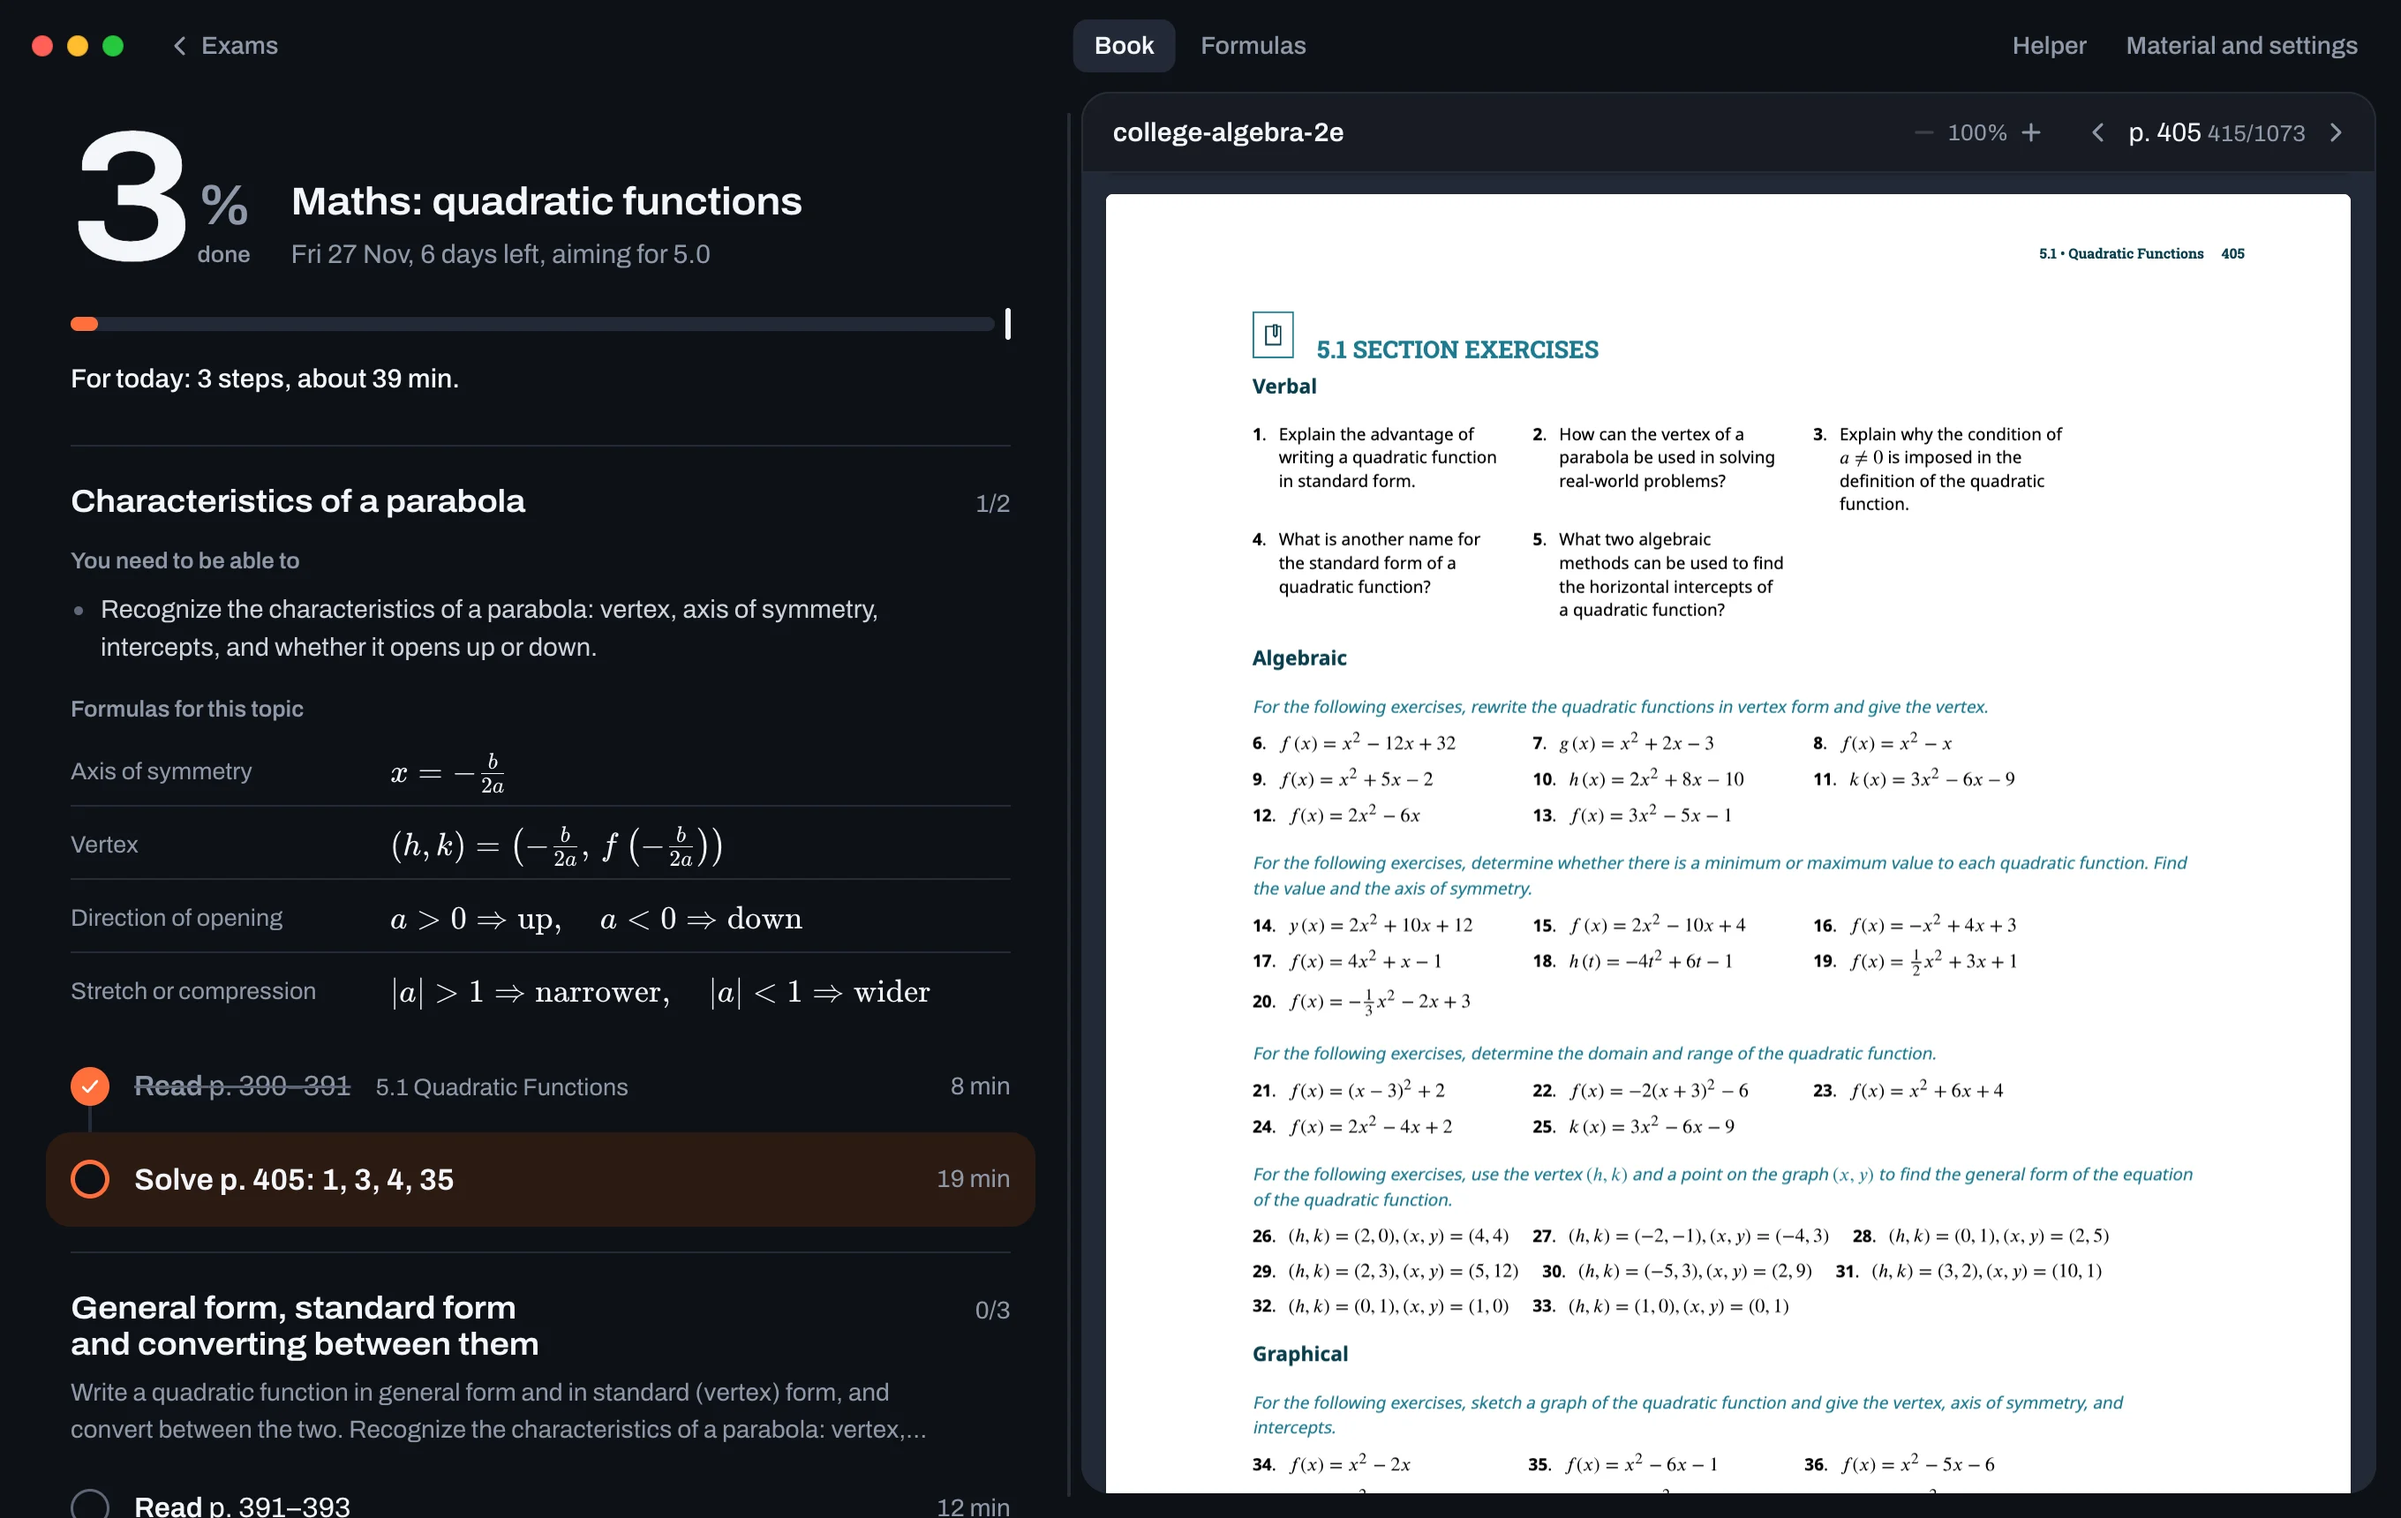
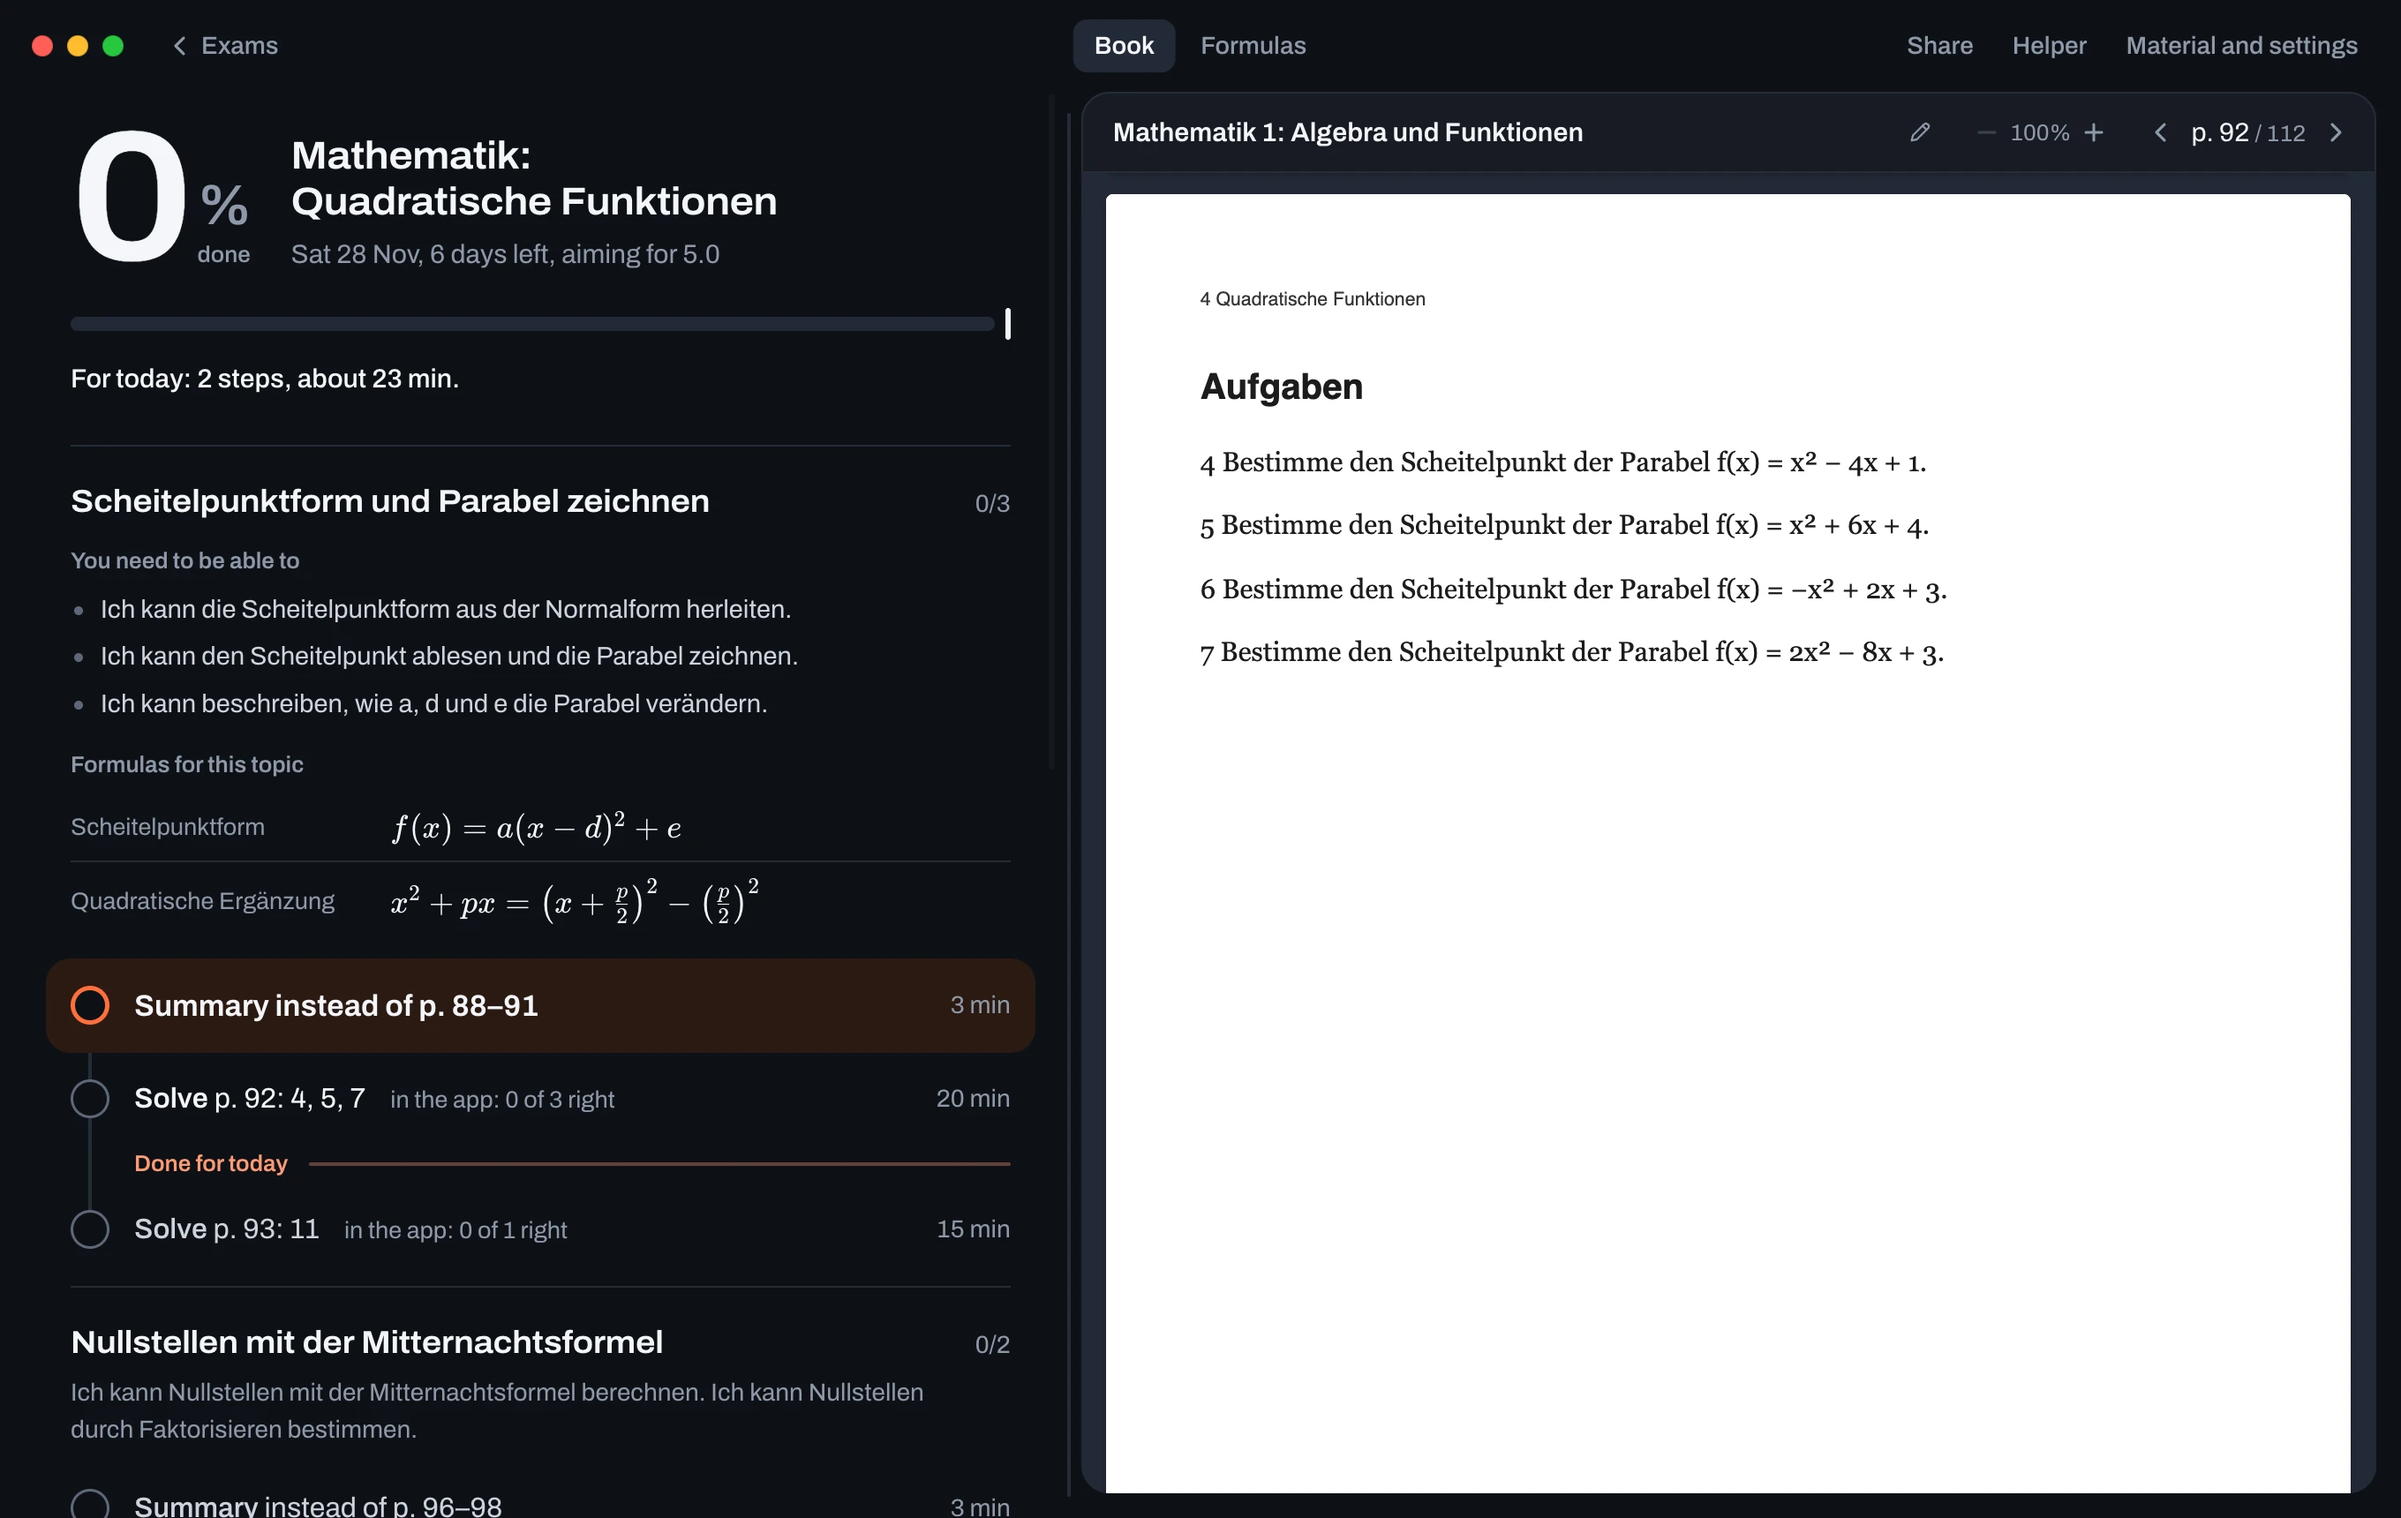
Aced 0.6: the Plan picture and its text show the summary and the exercises in the app
- assets/aced/exam-{light,dark}.webp: the 0.6 plan (summary instead of pages, exercises in the
  app), from the app's own pictures (docs/shots/learn-efficient), same size.
- ASSETS raised to 16, so browsers fetch the new pictures.
- The Plan tab's text says what the plan holds now.

diff --git a/render.js b/render.js
@@ -6,7 +6,7 @@
 
 // Cloudflare keeps pictures for hours under their address. Raise this number
 // whenever a file in assets/ is replaced, so visitors get the new one.
-const ASSETS = "15";
+const ASSETS = "16";
 const asset = (path) => `${path}?v=${ASSETS}`;
 
 // How the known apps are presented. A repository that is not listed here
@@ -220,7 +220,7 @@ const APPS = {
     slides: [
       {
         label: "Plan",
-        caption: "One screen per exam: how much is done, then what to read and which exercises to solve, with page and number. A step opens the book at its page.",
+        caption: "One screen per exam: how much is done, a short summary for each topic, and the exercises to solve right in the app, with the book open at their page.",
         shots: [{ src: "assets/aced/exam", w: 2720, h: 1720, kind: "window" }],
       },
       {
